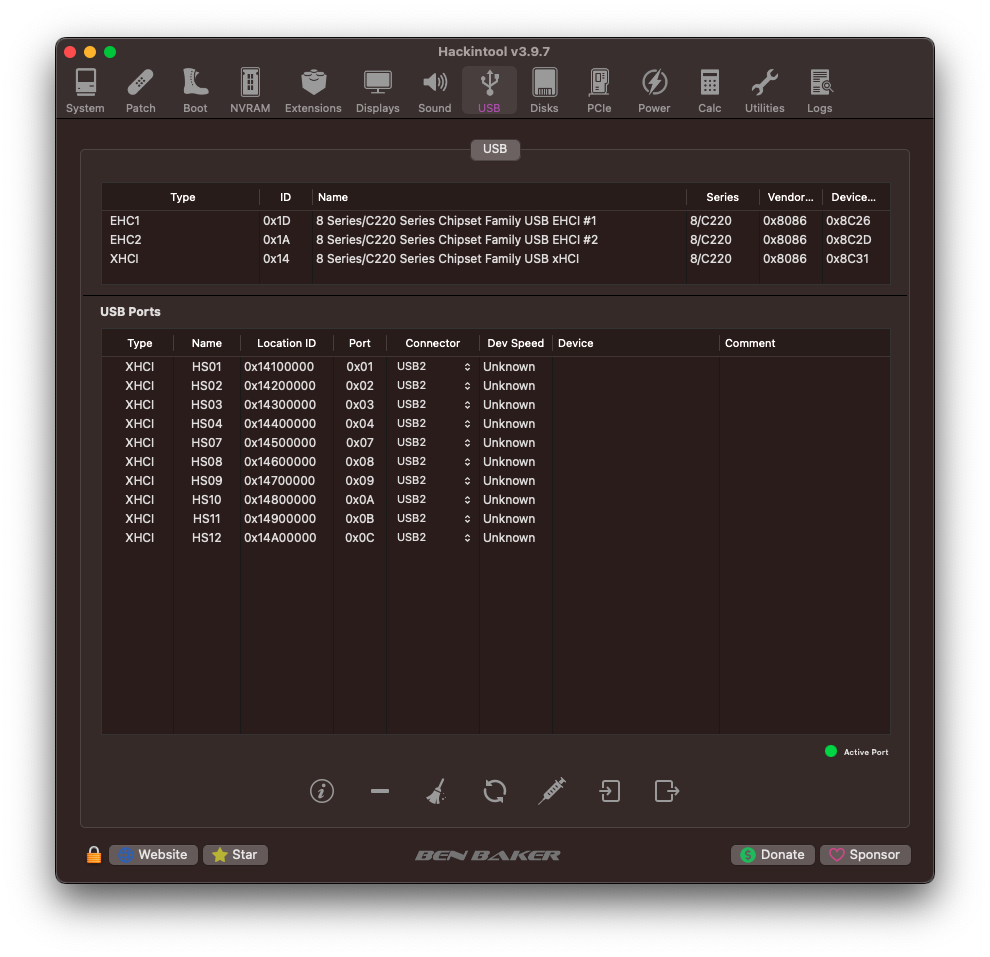
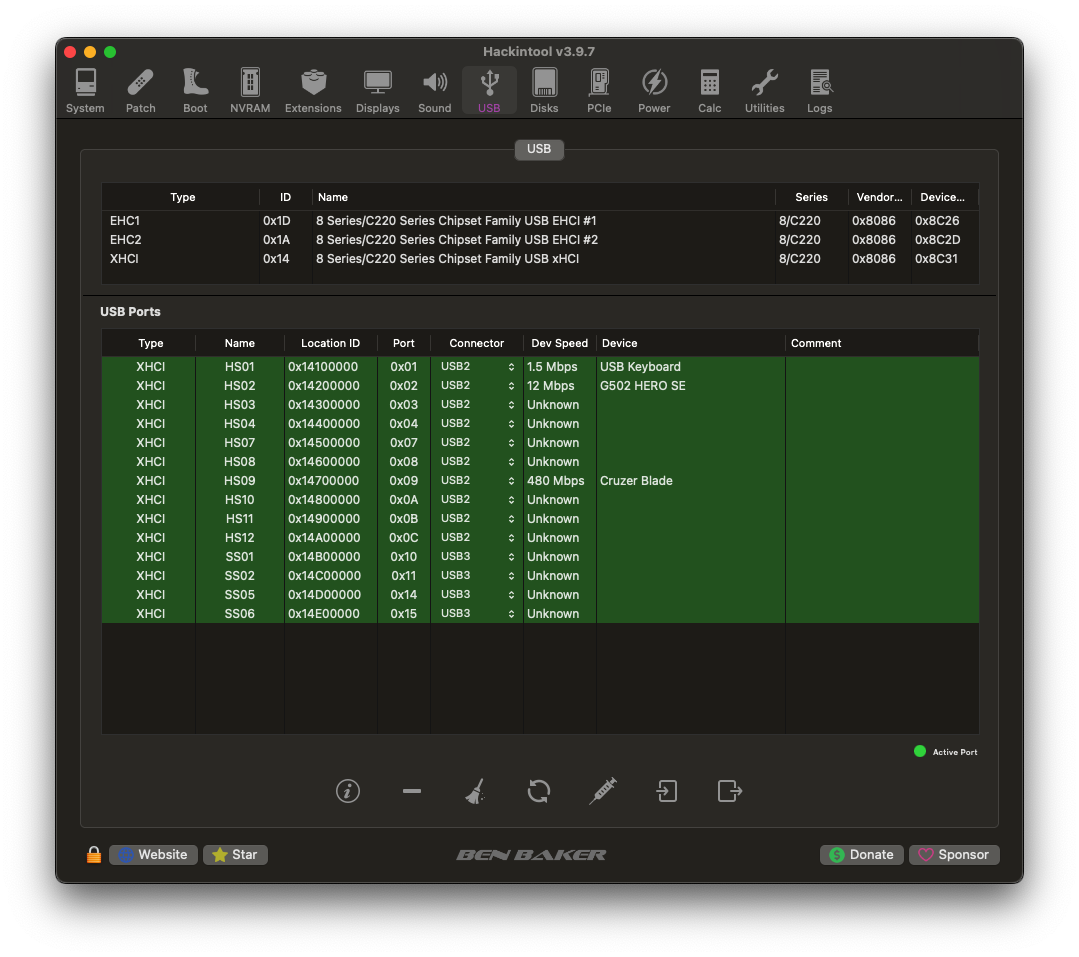
Fix: USB 3.0 now works

diff --git a/Infos/USB Map.md b/Infos/USB Map.md
@@ -1,0 +1,53 @@
+## USB 2.0 - TYPE A (0)
+### Front
+```
+9. UK09 | AppleUSB20XHCIPort |  9 (09000000) | 14900000 | Type 0 -- Front, Blue, 1/2
+10. UK10 | AppleUSB20XHCIPort | 10 (0a000000) | 14a00000 | Type 0 -- Front, Blue, 2/2
+```
+
+### Rear
+```
+3. UK03 | AppleUSB20XHCIPort |  3 (03000000) | 14300000 | Type 0 -- Rear, Blue, 1/2
+4. UK04 | AppleUSB20XHCIPort |  4 (04000000) | 14400000 | Type 0 -- Rear, Blue, 2/2
+1. UK01 | AppleUSB20XHCIPort |  1 (01000000) | 14100000 | Type 0 -- Rear, Black, 1/6
+2. UK02 | AppleUSB20XHCIPort |  2 (02000000) | 14200000 | Type 0 -- Rear, Black, 2/6
+7. UK07 | AppleUSB20XHCIPort |  7 (07000000) | 14700000 | Type 0 -- Rear, Black, 3/6
+8. UK08 | AppleUSB20XHCIPort |  8 (08000000) | 14800000 | Type 0 -- Rear, Black, 4/6
+11. UK11 | AppleUSB20XHCIPort | 11 (0b000000) | 14b00000 | Type 0 -- Rear, Black, 5/6
+12. UK12 | AppleUSB20XHCIPort | 12 (0c000000) | 14c00000 | Type 0 -- Rear, Black, 6/6
+```
+
+## USB 3.0 - TYPE A (3)
+### 3.0 Controller
+```
+16. UK16 | AppleUSB30XHCIPort | 16 (10000000) | 14000000 | Type 3 -- (Controller) and (Rear, Blue, 2/2)
+```
+
+### Front
+```
+21. UK21 | AppleUSB30XHCIPort | 21 (15000000) | 14500000 | Type 3 -- Front, Blue, 1/2
+20. UK20 | AppleUSB30XHCIPort | 20 (14000000) | 14400000 | Type 3 -- Front, Blue, 2/2
+```
+
+### Rear
+```
+17. UK17 | AppleUSB30XHCIPort | 17 (11000000) | 14100000 | Type 3 -- Rear, Blue, 1/2
+```
+
+## Internal (255)
+```
+None
+```
+
+## Enable ports
+```
+T:1,2,3,4,7,8,9,10,11,12:0
+T:16,17,20,21:3
+```
+
+```
+1,2,3,4,7,8,9,10,11,12,16,17,20,21
+```
+
+## Important information!
+With this motherboard and the way they engineered it `UK16` port function internally as a controller for Frontal usb. For reference go to usb map to view diagram.

diff --git a/README.md b/README.md
@@ -3,7 +3,7 @@
 <br>
 **Current OpenCore**: 0.9.2
 
-![about-this-mac](https://github.com/armindojr/EFI-X99-MACHINIST-PR9-PRO-MAX/blob/ffb56cf1d91fc40a9f17f0588e6b19424eb35890/Infos/About%20This%20Mac%20-%20Overview.png)
+![about-this-mac](https://github.com/armindojr/EFI-X99-MACHINIST-MR9-PRO-MAX/blob/9f5124d5ebb78d8c9bb181678115d03425d8d5d0/Infos/About%20This%20Mac%20-%20Overview.png)
 
 ## Complete hardware specs
 |Item|Description|
@@ -21,16 +21,14 @@
 - Audio
 - HDMI/DP
 - All USB ports
+- All ports mapped correctly (2.0 and 3.0 with back compatibility)
 - Ethernet
 - Shutdown/Reboot
-
-## What doesn't work
-- All USB ports is mapped to 2.0
+- Temperature monitoring for cpu and gpu
+- DRM content (Widevine, Playready, Fairplay tested)
 
 ## Not tested yet
 - Everything iCloud related (Drive, iMessage, Facetime, unlock with Apple Watch, etc)
-- Temperature monitoring for everything
-- DRM content
 
 ## Kexts used:
 - AppleALC.kext - [version 1.7.5](https://github.com/acidanthera/AppleALC)
